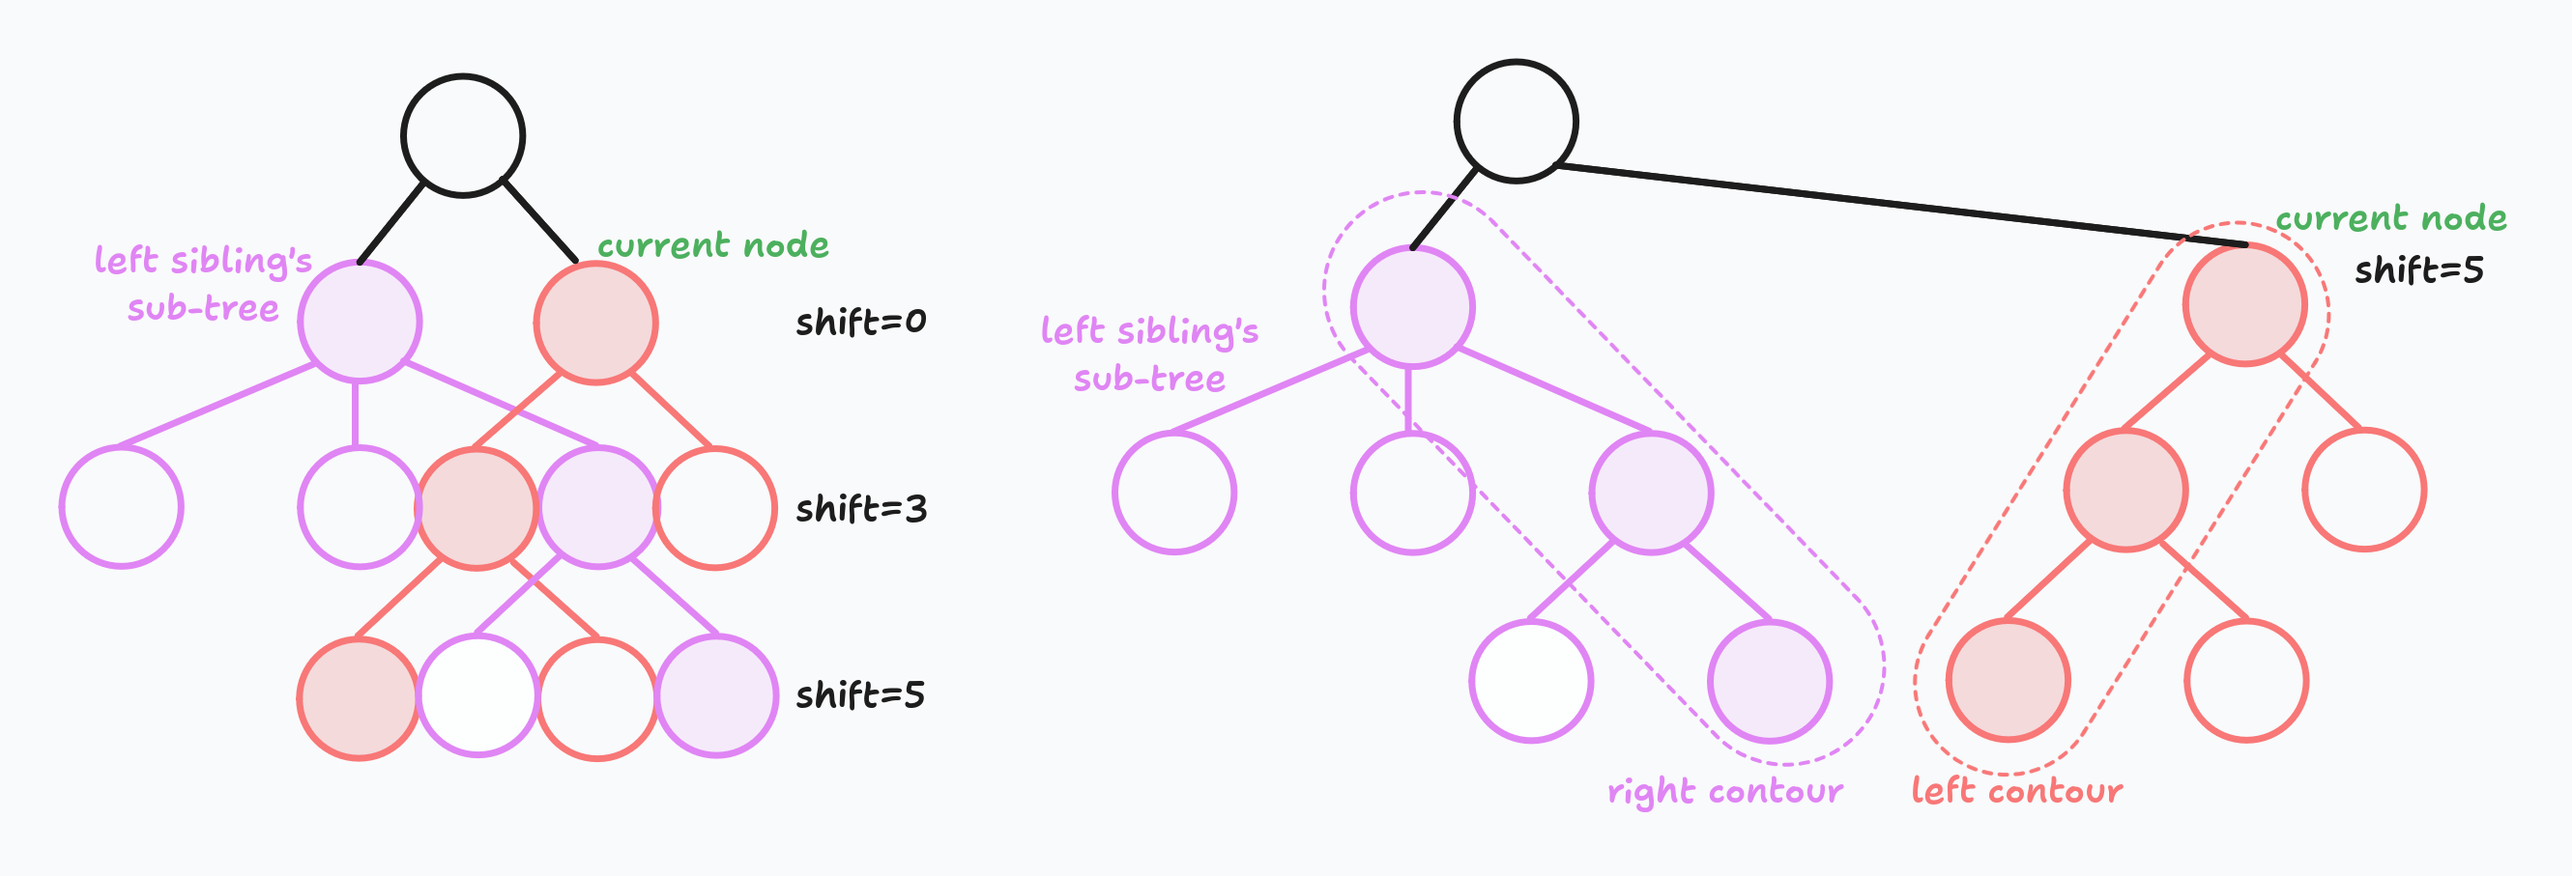
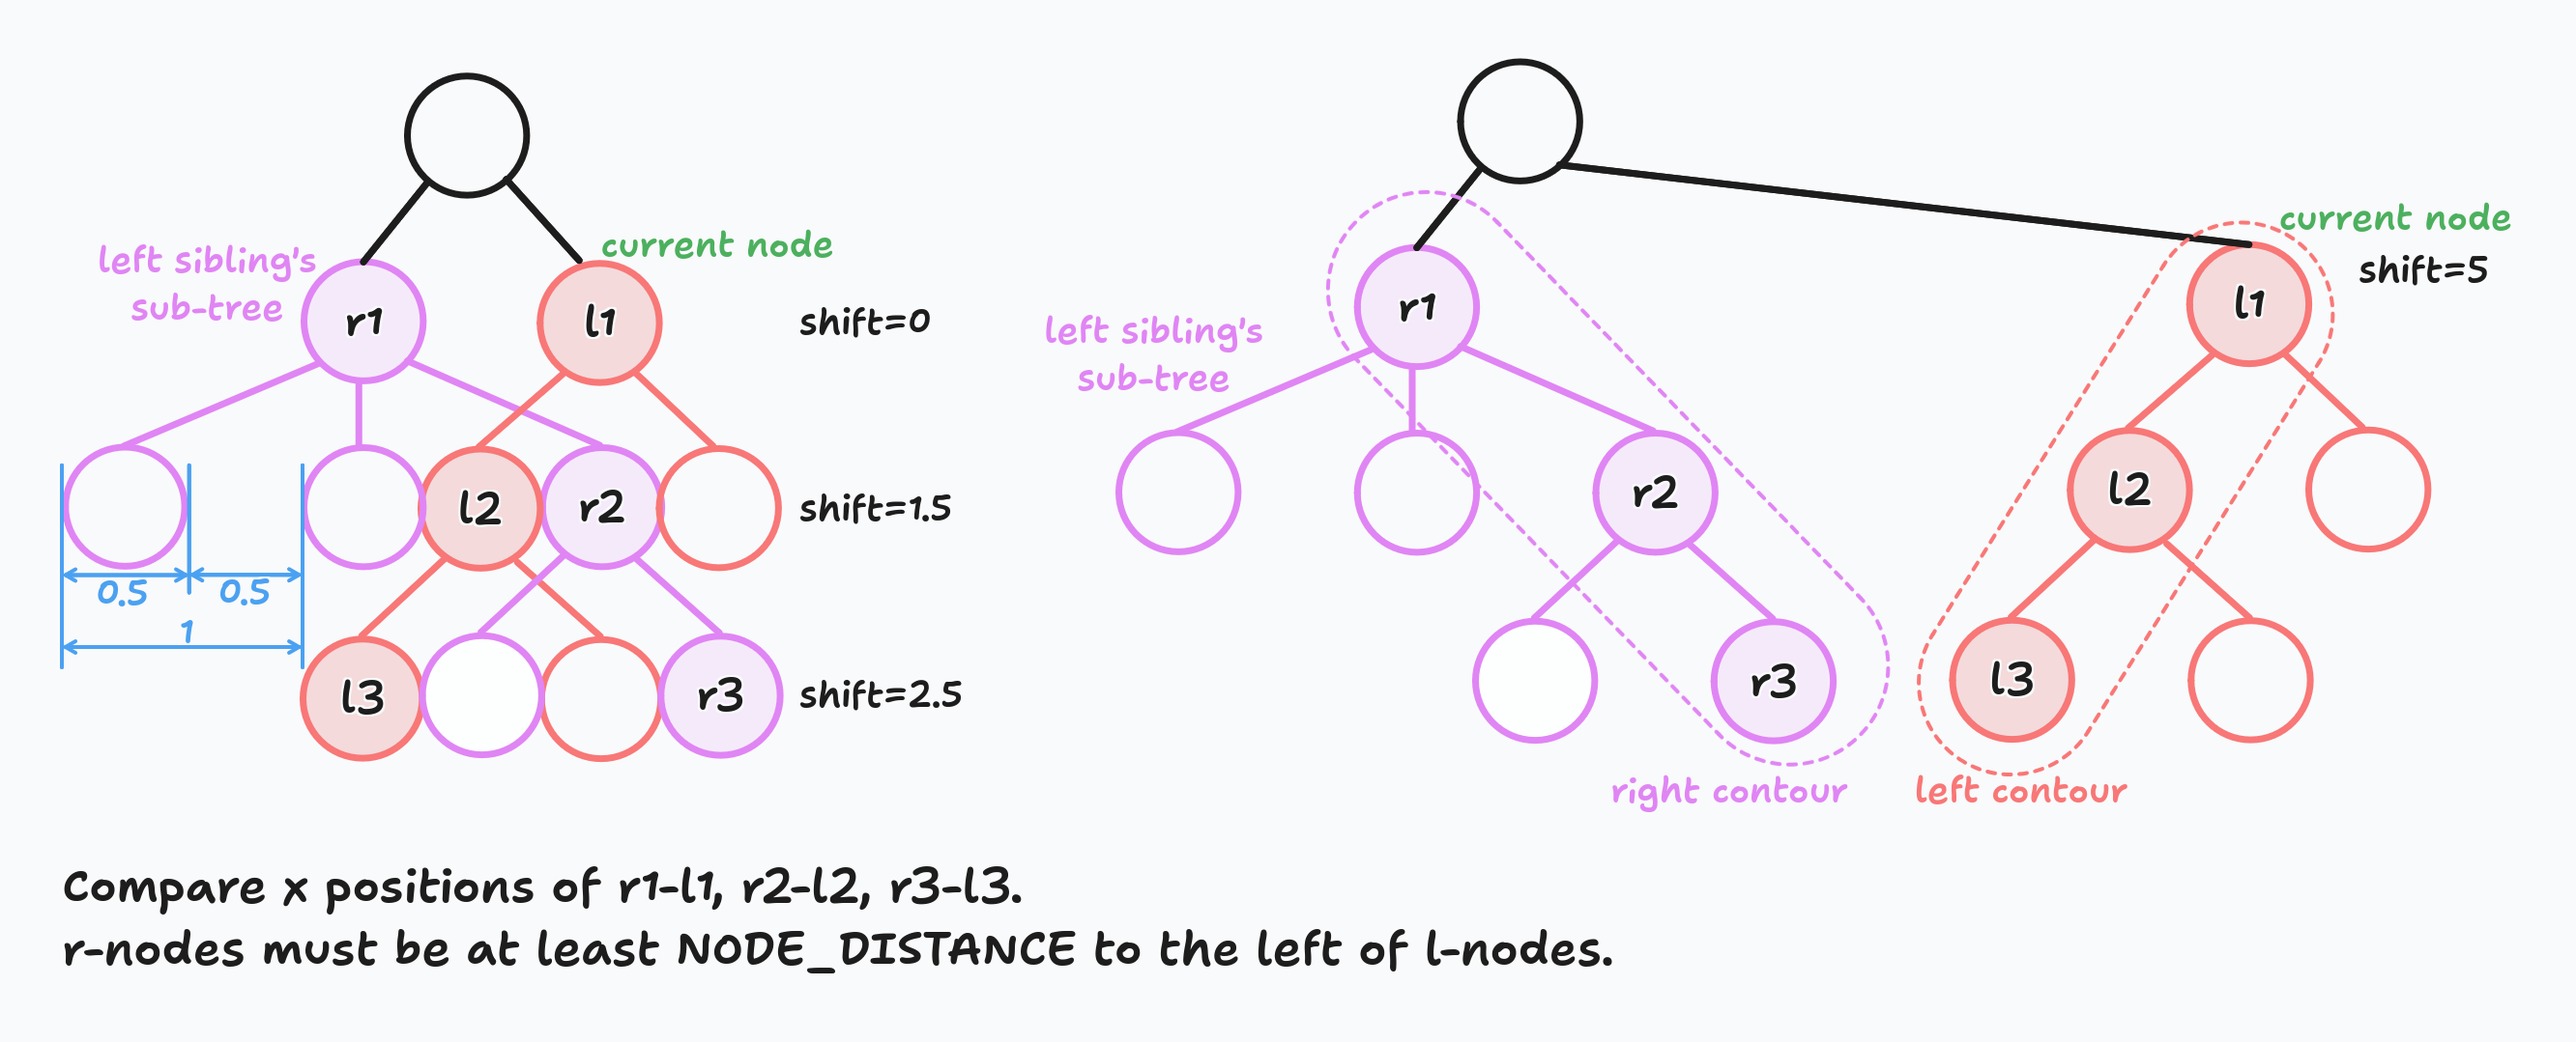
feat(Drawing Genealogy Graphs. Part 1): small improvement;

diff --git a/content/posts/draw-tree-using-reingold-tilford-algorithm/index.md b/content/posts/draw-tree-using-reingold-tilford-algorithm/index.md
@@ -217,7 +217,27 @@ If the current node is not the leftmost node among its siblings, then there is a
 We need to check for overlaps and increase the `shift` value if needed.
 
 For every sibling's sub-tree to the left, we do the following: we compare `x` coordinates of the rightmost node of the left sub-tree and leftmost node of the right sub-tree (current node sub-tree) on each level.
-If we detect that nodes overlap, we calculate how much we need to shift the right sub-tree. We do that on each level and, as a result, we take the maximum `shift` value. See the example:
+If we detect that nodes overlap, we calculate how much we need to shift the right sub-tree. We do that on each level and, as a result, we take the maximum `shift` value. The shift calculation algorithm is pretty simple:
+
+```ts
+// Pseudocode.
+// leftNode - rightmost node from the left sub-tree.
+// rightNode - leftmost node from the current (right) sub-tree.
+// leftShift - the sum of parents' mod and shift parameters for leftNode.
+// rightShift - the sum of parents' mod and shift parameters for rightNode.
+
+const leftX = leftNode.preX + leftShift + leftNode.shift + NODE_WIDTH;
+const rightX = rightNode.preX + rightShift + rightNode.shift;
+
+let shift = 0;
+// If the distance between sub-trees is not big enough.
+if (rightX - leftX < NODES_GAP) {
+    // Calculate needed shift.
+    shift = NODES_GAP - (rightX - leftX);
+}
+```
+
+See the example:
 
 ![](./shift-example.png)
 
